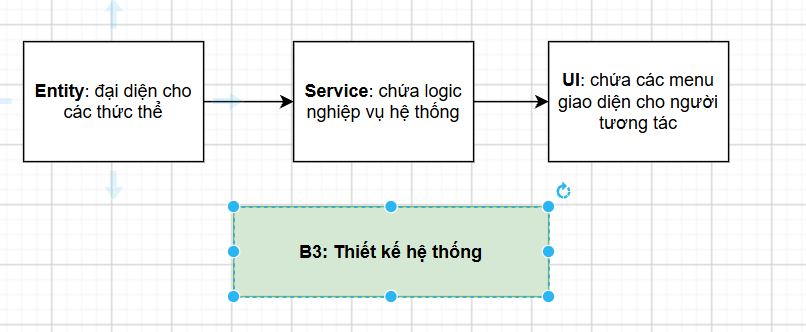
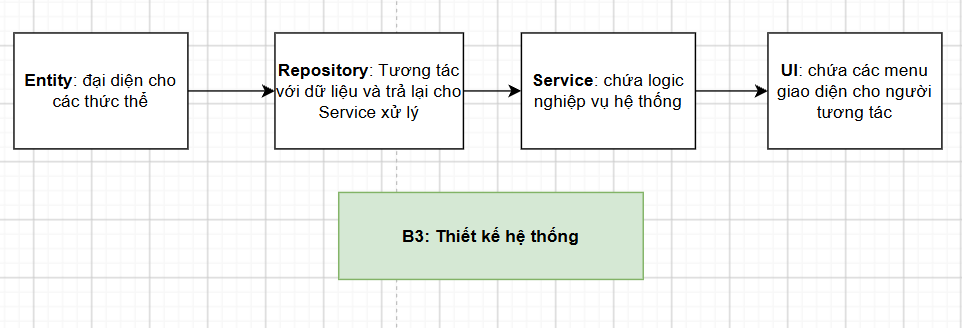
thêm đọc ghi file và hướng dẫn debug

diff --git a/Module_2/QuanLySanPham/src/main/java/repository/ProductRepository.java b/Module_2/QuanLySanPham/src/main/java/repository/ProductRepository.java
@@ -1,0 +1,67 @@
+package repository;
+
+import entity.Product;
+
+import java.io.*;
+import java.util.ArrayList;
+import java.util.List;
+
+public class ProductRepository implements IRepository<Product> {
+    private static final String FILE_NAME = "data/products.txt";
+
+    @Override
+    public void write(List<Product> list) {
+        String dataStr = "";
+        for (Product item : list) {
+            dataStr += item.getId() + "," + item.getName() + "," + item.getPrice() + "\n";
+        }
+        try {
+            FileWriter fileWriter = new FileWriter(FILE_NAME);
+            BufferedWriter bufferedWriter = new BufferedWriter(fileWriter);
+            bufferedWriter.write(dataStr);
+            bufferedWriter.close();
+        } catch (IOException e) {
+            System.out.println("[ProductRepository.write.error]: " + e.getMessage());
+        }
+    }
+
+    @Override
+    public List<Product> read() {
+        List<Product> list = new ArrayList<>();
+        try {
+            // Đọc từng dòng trong file -> Chuyển chuỗi dòng đó thành đối tượng Product -> thêm vào list -> return
+            FileReader fileReader = new FileReader(FILE_NAME);
+            BufferedReader bufferedReader = new BufferedReader(fileReader);
+            while (true) {
+                String line = bufferedReader.readLine(); // 121,Banh mi,3000.0
+                if (line == null) break;
+                String[] data = line.split(","); // ["121", "Banh mi", "3000.0"]
+                long id = Long.parseLong(data[0]); // "121" => parseLong -> 121
+                String name = data[1];
+                double price = Double.parseDouble(data[2]);
+                Product item = new Product(id, name, price);
+                list.add(item);
+            }
+            bufferedReader.close();
+            return list;
+        } catch (IOException e) {
+            System.out.println("[ProductRepository.read.error]: " + e.getMessage());
+        }
+        return list;
+    }
+
+    /*
+    public static void main(String[] args) {
+        ProductRepository repository = new ProductRepository();
+        List<Product> list = repository.read();
+        for (Product item : list) {
+            System.out.println(item.getId() + "," + item.getName() + "," + item.getPrice());
+        }
+        List<Product> list = new ArrayList<>();
+        list.add(new Product(121, "Banh mi", 3000));
+        list.add(new Product(12232, "Banh mi", 3500));
+        list.add(new Product(12233, "Com nam", 4000));
+        repository.write(list);
+    }
+    */
+}

diff --git a/Module_2/QuanLySanPham/src/main/java/service/ProductService.java b/Module_2/QuanLySanPham/src/main/java/service/ProductService.java
@@ -2,23 +2,25 @@ package service;
 
 import entity.Product;
 import lib.errors.DataNotFoundException;
+import repository.ProductRepository;
 
 import java.util.ArrayList;
 import java.util.List;
 
 public class ProductService implements IService<Product> {
+    private ProductRepository productRepository = new ProductRepository();
     private List<Product> list;
 
     public ProductService() {
-        list = new ArrayList<>();
+        list = productRepository.read(); // đọc dữ liệu từ File
     }
 
     public List<Product> findAllByContains(String keyword) {
         List<Product> listFound = new ArrayList<>();
         for (Product item : list) {
-           if(item.getName().toLowerCase().contains(keyword.toLowerCase())) {
-               listFound.add(item);
-           }
+            if (item.getName().toLowerCase().contains(keyword.toLowerCase())) {
+                listFound.add(item);
+            }
         }
         return listFound;
     }
@@ -29,18 +31,21 @@ public class ProductService implements IService<Product> {
         // kiểm tra các giá trị thuộc tính
         //....
         this.list.add(newProduct);
+        this.productRepository.write(list);
     }
 
     @Override
     public void delete(long id) {
         int index = this.findIndexById(id);
         this.list.remove(index);
+        this.productRepository.write(list);
     }
 
     @Override
     public void update(long id, Product product) {
         int index = this.findIndexById(id);
         this.list.set(index, product);
+        this.productRepository.write(list);
     }
 
     @Override
@@ -53,6 +58,8 @@ public class ProductService implements IService<Product> {
         for (int i = 0; i < this.list.size(); i++) {
             Product product = this.list.get(i);
             if (product.getId() == id) {
+//                System.out.println("[ProductService.findIndexById.product]" + product.getId() + "," + product.getName());
+//                System.out.println("ProductService.findIndexById.id" + id);
                 return i;
             }
         }
@@ -65,3 +72,18 @@ public class ProductService implements IService<Product> {
         return this.list.get(index);
     }
 }
+
+/*
+ Cách Debug
+ -> Focus vào tính năng
+ -> Đặt log của các biến trong các method của tính năng đó
+*/
+
+/*
+Cursor, Github Copilot, Claude, Codex
+*/
+
+/*
+Luyện tập cách debug
+Áp dụng đọc ghi file vào dự án.
+ */

diff --git a/Module_2/IOFile/src/main/java/Debug.java b/Module_2/IOFile/src/main/java/Debug.java
@@ -1,0 +1,17 @@
+public class Debug {
+    public static int sum(int a, int b) {
+        int total = a + b;
+        return total;
+    }
+
+    public static void main(String[] args) {
+        int num_1 = 1;
+        int num_2 = 2;
+        System.out.println(sum(num_1, num_2));
+        for (int i = 0; i < 10; i++) {
+            System.out.println(i);
+        }
+        System.out.println("Hello");
+        System.out.println("Hi");
+    }
+}

diff --git a/Module_2/QuanLySanPham/src/main/java/repository/IRepository.java b/Module_2/QuanLySanPham/src/main/java/repository/IRepository.java
@@ -1,0 +1,8 @@
+package repository;
+
+import java.util.List;
+
+public interface IRepository<T>{
+    void write(List<T> list);
+    List<T> read();
+}
